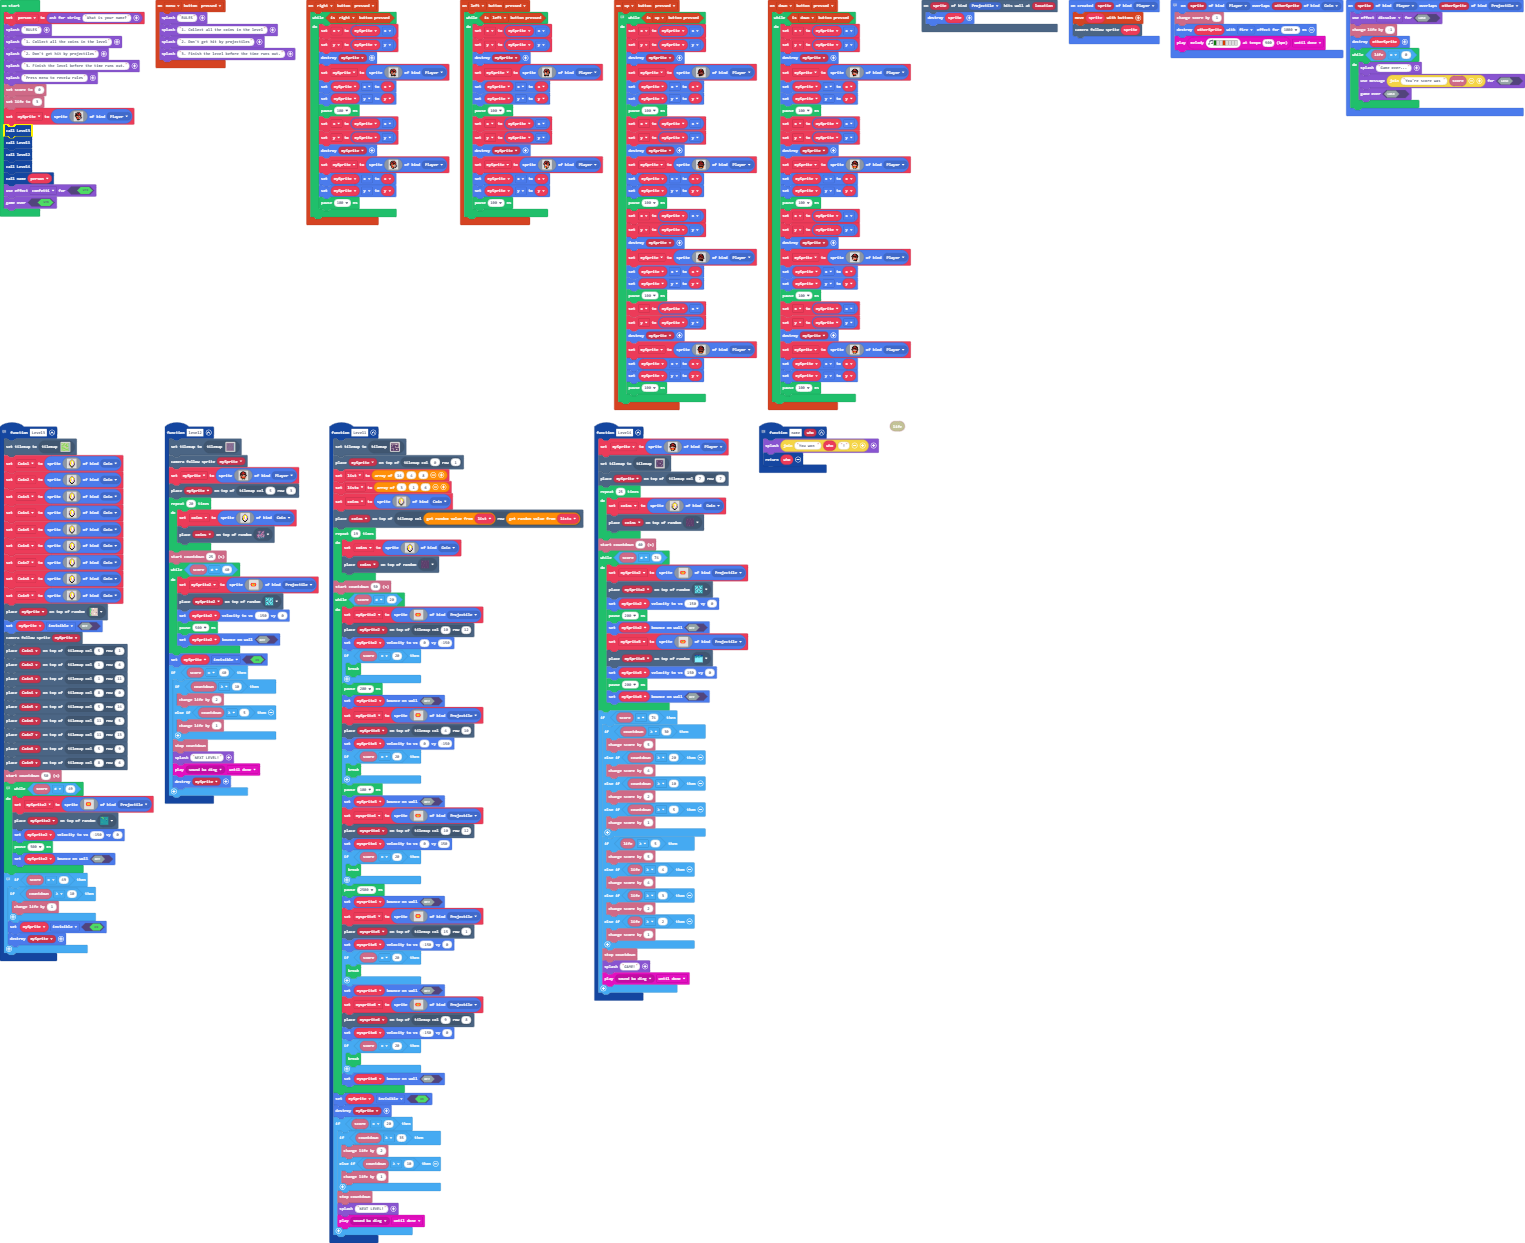
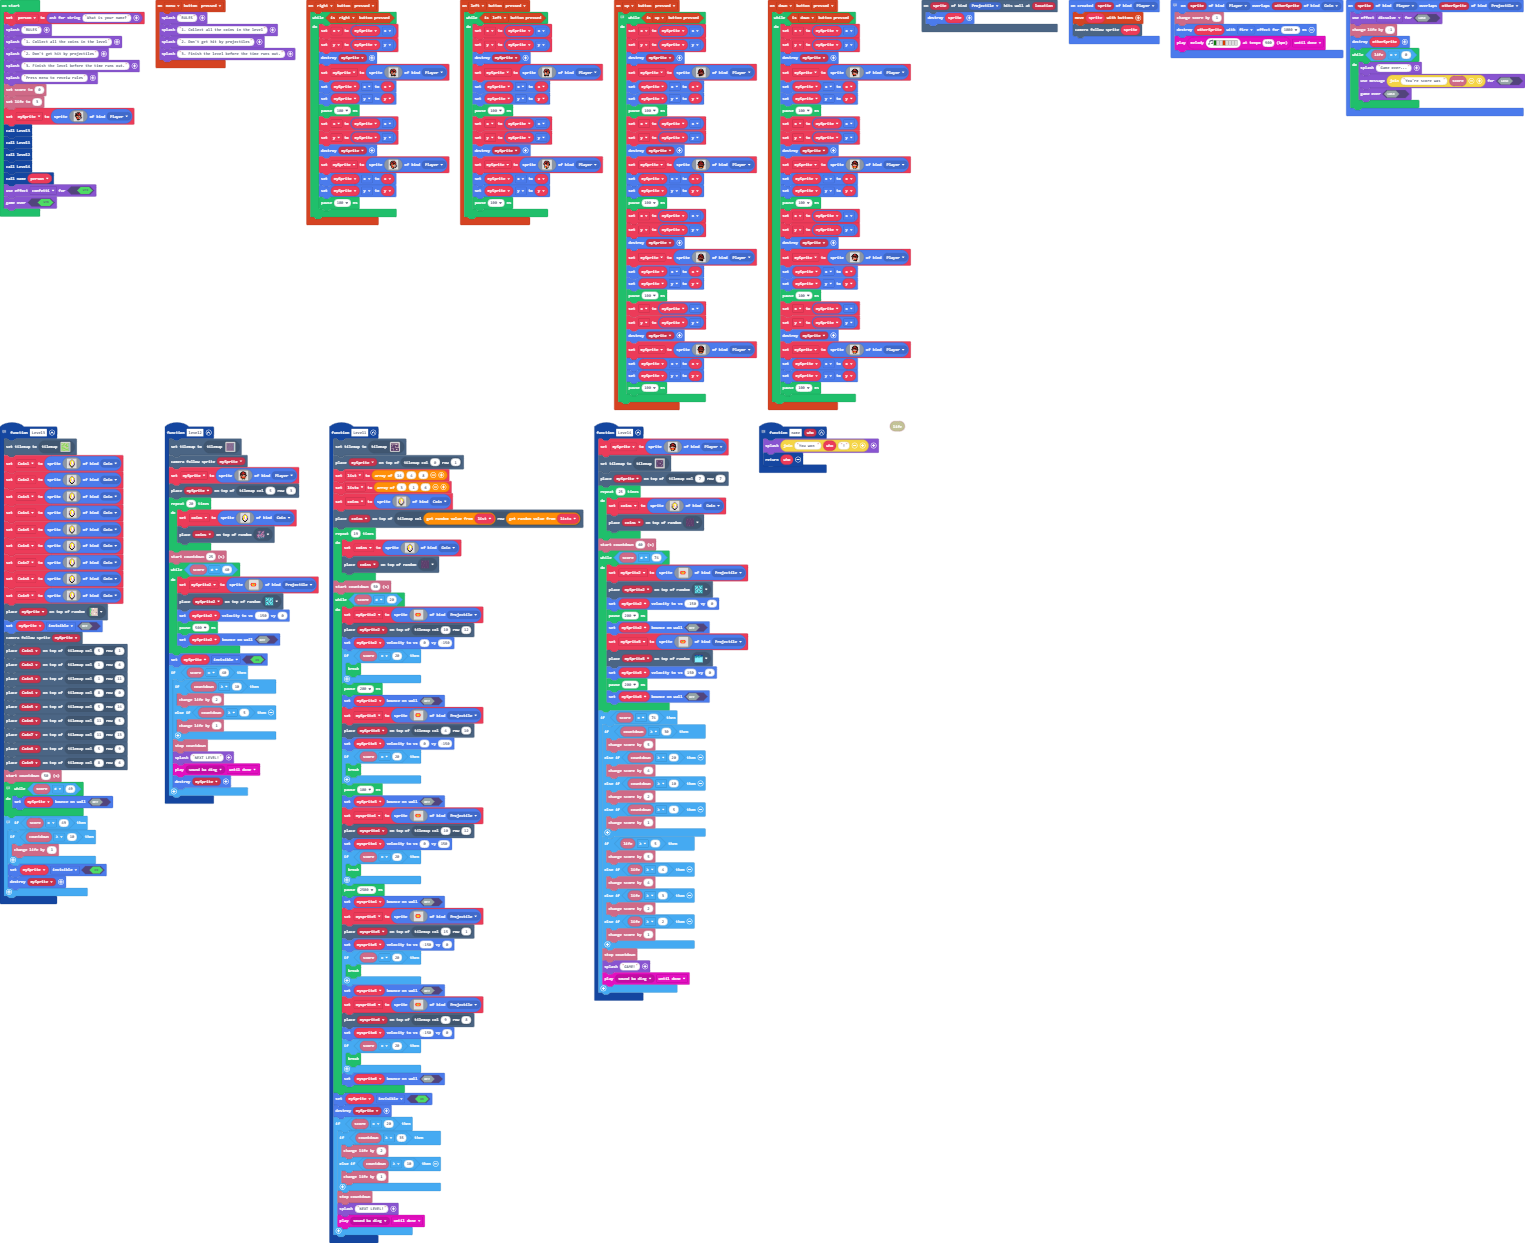
Update main.blocks, main.ts, tilemap.g.jres, tilemap.g.ts

Changed region(s): [[0.0, 0.642, 0.1233, 0.7949]]

diff --git a/tilemap.g.ts b/tilemap.g.ts
@@ -404,6 +404,82 @@ namespace myTiles {
 . . . . . . . . . . . . . . . . 
 . . . . . . . . . . . . . . . . 
 `, [myTiles.transparency16], TileScale.Sixteen);
+            case "level22":
+            case "level22":return tiles.createTilemap(hex`1000100000000000000000000000000000000000000000000000000000000000000000000000000000000000000000000000000000000000000000000000000000000000000000000000000000000000000000000000000000000000000000000000000000000000000000000000000000000000000000000000000000000000000000000000000000000000000000000000000000000000000000000000000000000000000000000000000000000000000000000000000000000000000000000000000000000000000000000000000000000000000000000000000000000000000000000000000000000000000000000000000000000000000000000000000000000000`, img`
+. . . . . . . . . . . . . . . . 
+. . . . . . . . . . . . . . . . 
+. . . . . . . . . . . . . . . . 
+. . . . . . . . . . . . . . . . 
+. . . . . . . . . . . . . . . . 
+. . . . . . . . . . . . . . . . 
+. . . . . . . . . . . . . . . . 
+. . . . . . . . . . . . . . . . 
+. . . . . . . . . . . . . . . . 
+. . . . . . . . . . . . . . . . 
+. . . . . . . . . . . . . . . . 
+. . . . . . . . . . . . . . . . 
+. . . . . . . . . . . . . . . . 
+. . . . . . . . . . . . . . . . 
+. . . . . . . . . . . . . . . . 
+. . . . . . . . . . . . . . . . 
+`, [myTiles.transparency16], TileScale.Sixteen);
+            case "level23":
+            case "level23":return tiles.createTilemap(hex`1000100000000000000000000000000000000000000000000000000000000000000000000000000000000000000000000000000000000000000000000000000000000000000000000000000000000000000000000000000000000000000000000000000000000000000000000000000000000000000000000000000000000000000000000000000000000000000000000000000000000000000000000000000000000000000000000000000000000000000000000000000000000000000000000000000000000000000000000000000000000000000000000000000000000000000000000000000000000000000000000000000000000000000000000000000000000000`, img`
+. . . . . . . . . . . . . . . . 
+. . . . . . . . . . . . . . . . 
+. . . . . . . . . . . . . . . . 
+. . . . . . . . . . . . . . . . 
+. . . . . . . . . . . . . . . . 
+. . . . . . . . . . . . . . . . 
+. . . . . . . . . . . . . . . . 
+. . . . . . . . . . . . . . . . 
+. . . . . . . . . . . . . . . . 
+. . . . . . . . . . . . . . . . 
+. . . . . . . . . . . . . . . . 
+. . . . . . . . . . . . . . . . 
+. . . . . . . . . . . . . . . . 
+. . . . . . . . . . . . . . . . 
+. . . . . . . . . . . . . . . . 
+. . . . . . . . . . . . . . . . 
+`, [myTiles.transparency16], TileScale.Sixteen);
+            case "level24":
+            case "level24":return tiles.createTilemap(hex`1000100000000000000000000000000000000000000000000000000000000000000000000000000000000000000000000000000000000000000000000000000000000000000000000000000000000000000000000000000000000000000000000000000000000000000000000000000000000000000000000000000000000000000000000000000000000000000000000000000000000000000000000000000000000000000000000000000000000000000000000000000000000000000000000000000000000000000000000000000000000000000000000000000000000000000000000000000000000000000000000000000000000000000000000000000000000000`, img`
+. . . . . . . . . . . . . . . . 
+. . . . . . . . . . . . . . . . 
+. . . . . . . . . . . . . . . . 
+. . . . . . . . . . . . . . . . 
+. . . . . . . . . . . . . . . . 
+. . . . . . . . . . . . . . . . 
+. . . . . . . . . . . . . . . . 
+. . . . . . . . . . . . . . . . 
+. . . . . . . . . . . . . . . . 
+. . . . . . . . . . . . . . . . 
+. . . . . . . . . . . . . . . . 
+. . . . . . . . . . . . . . . . 
+. . . . . . . . . . . . . . . . 
+. . . . . . . . . . . . . . . . 
+. . . . . . . . . . . . . . . . 
+. . . . . . . . . . . . . . . . 
+`, [myTiles.transparency16], TileScale.Sixteen);
+            case "level25":
+            case "level25":return tiles.createTilemap(hex`1000100000000000000000000000000000000000000000000000000000000000000000000000000000000000000000000000000000000000000000000000000000000000000000000000000000000000000000000000000000000000000000000000000000000000000000000000000000000000000000000000000000000000000000000000000000000000000000000000000000000000000000000000000000000000000000000000000000000000000000000000000000000000000000000000000000000000000000000000000000000000000000000000000000000000000000000000000000000000000000000000000000000000000000000000000000000000`, img`
+. . . . . . . . . . . . . . . . 
+. . . . . . . . . . . . . . . . 
+. . . . . . . . . . . . . . . . 
+. . . . . . . . . . . . . . . . 
+. . . . . . . . . . . . . . . . 
+. . . . . . . . . . . . . . . . 
+. . . . . . . . . . . . . . . . 
+. . . . . . . . . . . . . . . . 
+. . . . . . . . . . . . . . . . 
+. . . . . . . . . . . . . . . . 
+. . . . . . . . . . . . . . . . 
+. . . . . . . . . . . . . . . . 
+. . . . . . . . . . . . . . . . 
+. . . . . . . . . . . . . . . . 
+. . . . . . . . . . . . . . . . 
+. . . . . . . . . . . . . . . . 
+`, [myTiles.transparency16], TileScale.Sixteen);
         }
         return null;
     })

diff --git a/main.ts b/main.ts
@@ -222,28 +222,7 @@ function Level3 () {
     info.startCountdown(50)
     // while score is not 49 projectiles keep going.
     while (info.score() != 49) {
-        mySprite2 = sprites.create(img`
-            . . . . . . . . . . . . . . . . 
-            . . . . . . . . . . . . . . . . 
-            . . . . . . . . . . . . . . . . 
-            . . . . . . . . . . . . . . . . 
-            . . . 2 2 2 2 2 2 2 2 . . . . . 
-            . . 2 2 4 4 4 4 4 4 2 2 . . . . 
-            . . 2 4 4 5 5 5 5 4 4 2 . . . . 
-            . 2 2 4 4 5 6 6 5 4 4 2 2 . . . 
-            . . 2 4 4 5 5 5 5 4 4 2 . . . . 
-            . . 2 2 4 4 4 4 4 4 2 2 . . . . 
-            . . . 2 2 2 2 2 2 2 2 . . . . . 
-            . . . . . . . . . . . . . . . . 
-            . . . . . . . . . . . . . . . . 
-            . . . . . . . . . . . . . . . . 
-            . . . . . . . . . . . . . . . . 
-            . . . . . . . . . . . . . . . . 
-            `, SpriteKind.Projectile)
-        tiles.placeOnRandomTile(mySprite2, sprites.castle.tileDarkGrass3)
-        mySprite2.setVelocity(-150, 0)
-        pause(500)
-        mySprite2.setBounceOnWall(false)
+        mySprite.setBounceOnWall(false)
     }
     // once score is 49
     if (info.score() == 49) {
@@ -831,10 +810,10 @@ let mysprite6: Sprite = null
 let mysprite5: Sprite = null
 let mysprite4: Sprite = null
 let mySprite3: Sprite = null
+let mySprite2: Sprite = null
 let coins: Sprite = null
 let listx: number[] = []
 let list: number[] = []
-let mySprite2: Sprite = null
 let Coin9: Sprite = null
 let Coin8: Sprite = null
 let Coin7: Sprite = null
